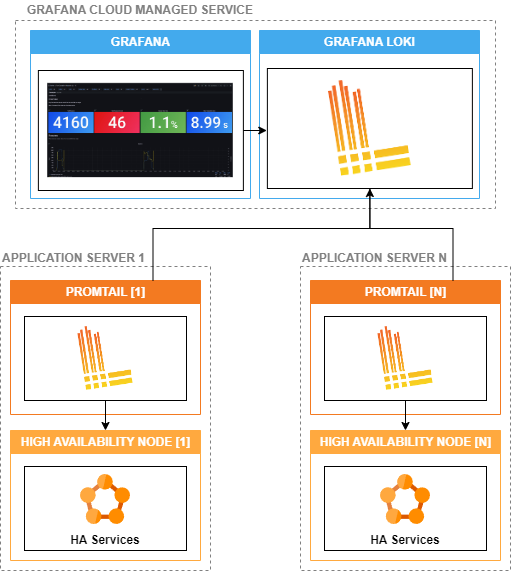
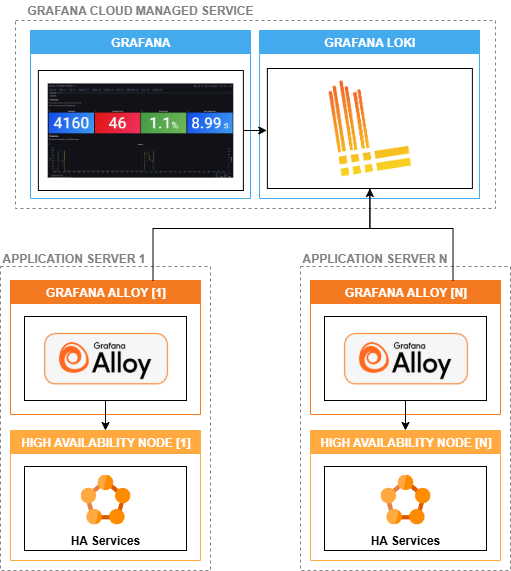
made changes following review of site content

diff --git a/content/en/docs/2026.3/Guides/upgrade-guides/upgrade-observability/4.2.1-to-5.0.0/cloud/grafana/upgrade-alloy.md b/content/en/docs/2026.3/Guides/upgrade-guides/upgrade-observability/4.2.1-to-5.0.0/cloud/grafana/upgrade-alloy.md
@@ -29,10 +29,49 @@ These steps will need to be performed on all application servers that host a Gra
 1. Change the `__path__` value so that the part containing the file name changes to `ServiceFabricHttpEventLog-[0-9][0-9][0-9][0-9][0-9][0-9][0-9][0-9]{,_[0-9][0-9][0-9]}.json`. Note there is a change to the `,` location.
 
     The line should now look similar to `__path__    = "C:/ProgramData/Cortex/API Gateway Service/Logs/**/ServiceFabricHttpEventLog-[0-9][0-9][0-9][0-9][0-9][0-9][0-9][0-9]{,_[0-9][0-9][0-9]}.json",`
+1. Copy the following code and paste it in to the `config.alloy` file. It should be added to the end of the `expressions` section but before the `}` typically found on line 139.
+
+    ``` text
+                    FlowResult         = "Event.Tags.Cortex.\"Execution.Result.Status\" || 'N/A'",
+                    Method             = "'Unknown'",
+    ```
+
+1. Copy the following code and paste it in to the `config.alloy` file. It should be added to the end of the `values` section but before the `}` typically found on line 157 after the above change.
+
+    ``` text
+                    FlowResult         = null,
+                    Method             = null,
+    ```
+
+1. Copy the following code and paste it in to the `config.alloy` file. It should be added to the end of the `loki.process "ExecutionService" {` section but before the `}` typically found on line 162 after the above change.
+
+    ``` text
+
+        stage.match {
+            selector = "{job=\"ExecutionService\"}|~ \"\\\"Method\\\":.?\\\"Cortex.FlowEngine.Execution.Engine.Run\\\"\""
+
+            stage.json {
+                expressions = {
+                    Method             = "'FlowExecution'",
+                }
+            }
+
+            stage.labels {
+                values = {
+                    Method             = null,
+                }
+            }
+        }
+    ```
+
 1. Save the file.
+
+### Restart the Service
+
 1. Open `services.msc`.
 1. Locate the `Alloy` service.
 1. Right click on the service name and select `Restart`. If the service is not already running, select `Start`.
+
 
 ## Next Steps?
 

diff --git a/content/en/docs/2026.3/Guides/upgrade-guides/upgrade-observability/4.2.1-to-5.0.0/cloud/grafana/try-it-out.md b/content/en/docs/2026.3/Guides/upgrade-guides/upgrade-observability/4.2.1-to-5.0.0/cloud/grafana/try-it-out.md
@@ -7,7 +7,7 @@ weight: 4
 
 # {{% param title %}}
 
-This guide describes how to verify that the upgrade has been successful. Please ensure that [Migration to Grafana Alloy][Migrate To Alloy] has been completed before taking these steps.
+This guide describes how to verify that the upgrade has been successful. Please ensure that [Upgrade Grafana Alloy][Upgrade Alloy] has been completed before taking these steps.
 
 ## Confirm New Data is Processed
 
@@ -58,5 +58,5 @@ If other requests have been made then there may be more than one request visible
 
 [Postman]: {{< url path="Postman.Downloads.MainDoc" >}}
 [HA Installation script configuration]: {{< url path="Cortex.GettingStarted.OnPremise.InstallInnovationOnly.MultipleServerWithHA.ConfigureInstallationScriptNew" >}}
-[Migrate To Alloy]: {{< url path="Cortex.Guides.UpgradeGuides.UpgradeObservability.3_0_0to4_0_0.Cloud.Grafana.MigrateToAlloy" >}}
+[Upgrade Alloy]: {{< url path="Cortex.Guides.UpgradeGuides.UpgradeObservability.4_2_1to5_0_0.Cloud.Grafana.UpgradeAlloy" >}}
 [Non-HA Installation script configuration]: {{< url path="Cortex.GettingStarted.OnPremise.InstallInnovationOnly.SingleServerWithoutHA.ConfigureInstallationScriptNew" >}}

diff --git a/content/en/docs/2025.3/getting-started/on-premise/add-observability-to-innovation/Grafana/setup-grafana.md b/content/en/docs/2025.3/getting-started/on-premise/add-observability-to-innovation/Grafana/setup-grafana.md
@@ -9,7 +9,7 @@ weight: 60
 
 This guide describes where to get the default {{% ctx %}} Dashboards from and how to import them for use in Grafana.
 
-Please ensure that the Installations for [Grafana][] and [Loki][] have been completed before starting this section.
+Please ensure that the Installations for [Grafana][], [Loki][] and [Alloy] have been completed before starting this section.
 
 ## Configure Loki Data Source in Grafana
 
@@ -84,6 +84,7 @@ To do this, follow these steps for all default {{% ctx %}} dashboards imported:
 
 1. [Try it Out][]
 
+[Alloy]: {{< url path="Cortex.GettingStarted.OnPremise.AddObservabilityToInnovation.Grafana.InstallAlloy.MainDoc" >}}
 [Grafana.Dashboards.zip]: {{< url path="GitHub.Cortex.Observability.4_2_1.GrafanaDashboardsZip" >}}
 [Grafana]: {{< url path="Cortex.GettingStarted.OnPremise.AddObservabilityToInnovation.Grafana.InstallGrafana.MainDoc" >}}
 [Loki]: {{< url path="Cortex.GettingStarted.OnPremise.AddObservabilityToInnovation.Grafana.InstallLoki.MainDoc" >}}

diff --git a/content/en/docs/2025.9/getting-started/on-premise/add-observability-to-innovation/Grafana/setup-grafana.md b/content/en/docs/2025.9/getting-started/on-premise/add-observability-to-innovation/Grafana/setup-grafana.md
@@ -9,7 +9,7 @@ weight: 60
 
 This guide describes where to get the default {{% ctx %}} Dashboards from and how to import them for use in Grafana.
 
-Please ensure that the Installations for [Grafana][] and [Loki][] have been completed before starting this section.
+Please ensure that the Installations for [Grafana][], [Loki][] and [Alloy] have been completed before starting this section.
 
 ## Configure Loki Data Source in Grafana
 
@@ -84,6 +84,7 @@ To do this, follow these steps for all default {{% ctx %}} dashboards imported:
 
 1. [Try it Out][]
 
+[Alloy]: {{< url path="Cortex.GettingStarted.OnPremise.AddObservabilityToInnovation.Grafana.InstallAlloy.MainDoc" >}}
 [Grafana.Dashboards.zip]: {{< url path="GitHub.Cortex.Observability.4_2_1.GrafanaDashboardsZip" >}}
 [Grafana]: {{< url path="Cortex.GettingStarted.OnPremise.AddObservabilityToInnovation.Grafana.InstallGrafana.MainDoc" >}}
 [Loki]: {{< url path="Cortex.GettingStarted.OnPremise.AddObservabilityToInnovation.Grafana.InstallLoki.MainDoc" >}}

diff --git a/content/en/docs/2026.3/getting-started/on-premise/add-observability-to-innovation/Grafana/setup-grafana.md b/content/en/docs/2026.3/getting-started/on-premise/add-observability-to-innovation/Grafana/setup-grafana.md
@@ -9,7 +9,7 @@ weight: 60
 
 This guide describes where to get the default {{% ctx %}} Dashboards from and how to import them for use in Grafana.
 
-Please ensure that the Installations for [Grafana][] and [Loki][] have been completed before starting this section.
+Please ensure that the Installations for [Grafana][], [Loki][] and [Alloy] have been completed before starting this section.
 
 ## Configure Loki Data Source in Grafana
 
@@ -84,6 +84,7 @@ To do this, follow these steps for all default {{% ctx %}} dashboards imported:
 
 1. [Try it Out][]
 
+[Alloy]: {{< url path="Cortex.GettingStarted.OnPremise.AddObservabilityToInnovation.Grafana.InstallAlloy.MainDoc" >}}
 [Grafana.Dashboards.zip]: {{< url path="GitHub.Cortex.Observability.4_2_1.GrafanaDashboardsZip" >}}
 [Grafana]: {{< url path="Cortex.GettingStarted.OnPremise.AddObservabilityToInnovation.Grafana.InstallGrafana.MainDoc" >}}
 [Loki]: {{< url path="Cortex.GettingStarted.OnPremise.AddObservabilityToInnovation.Grafana.InstallLoki.MainDoc" >}}
